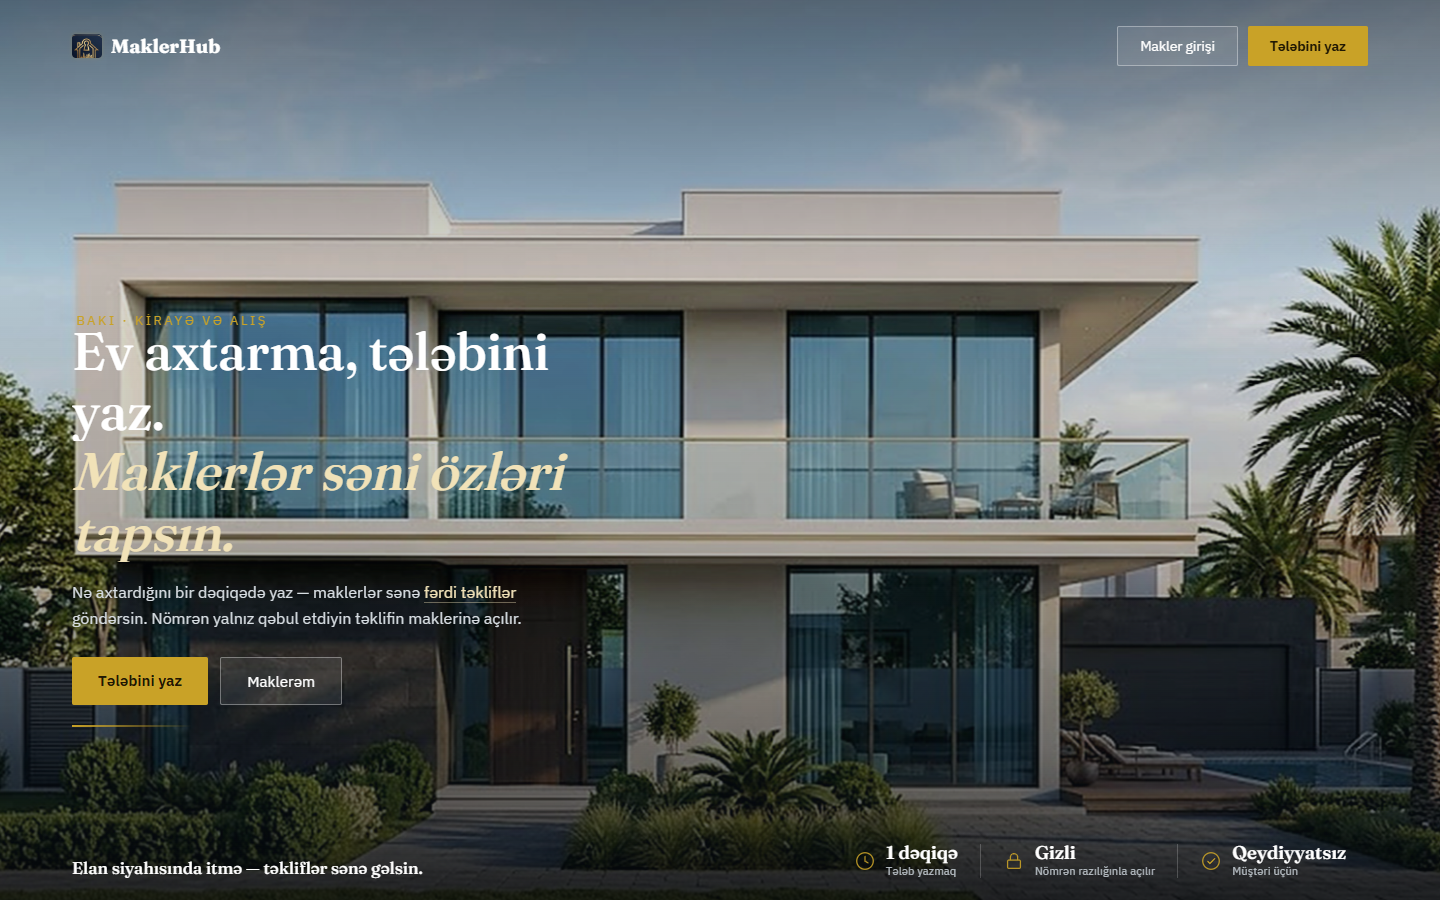
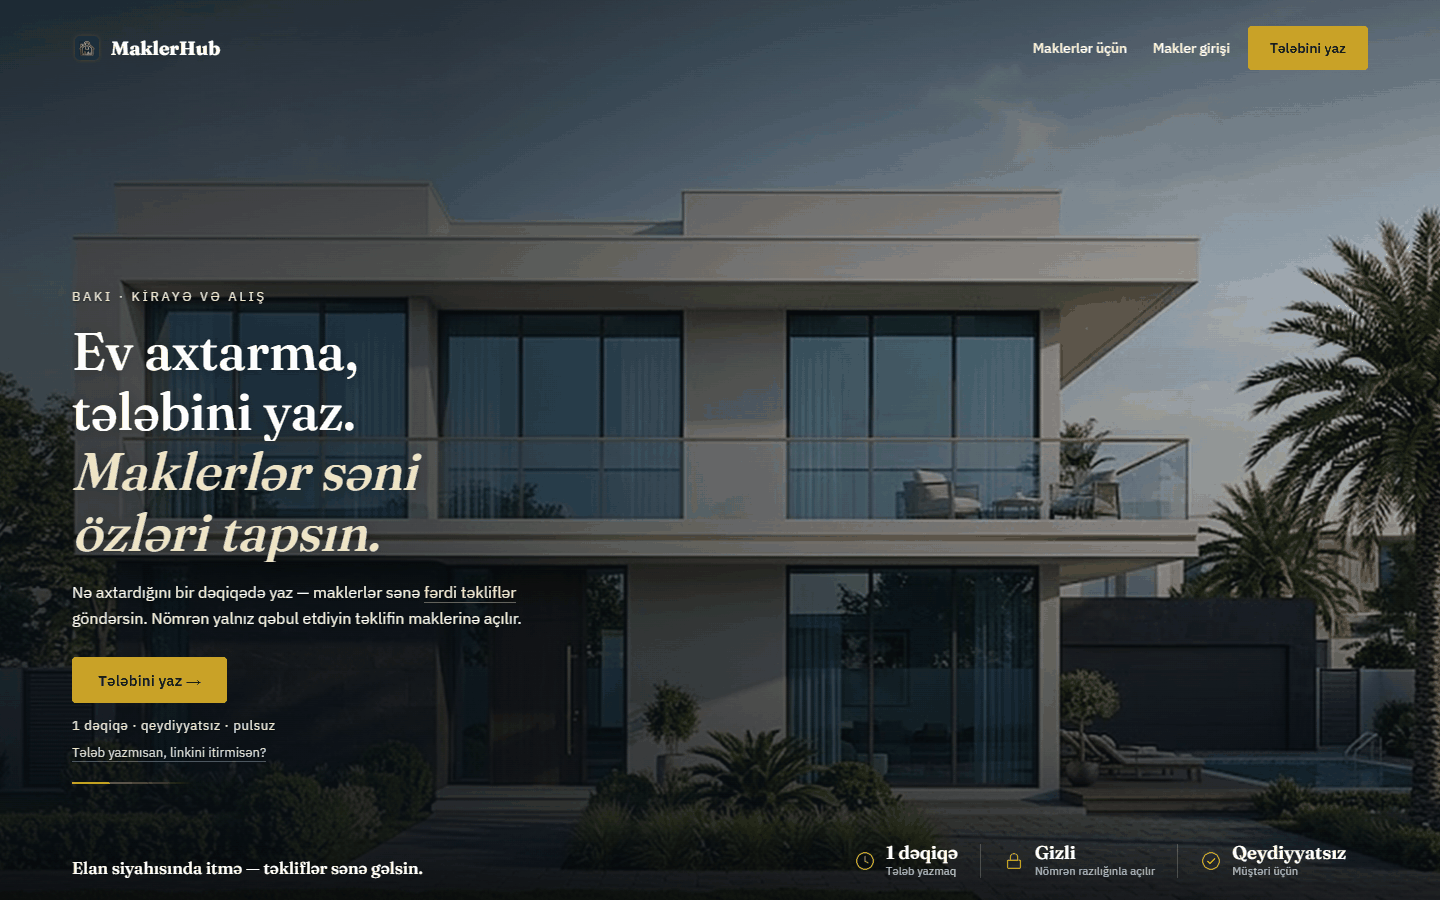
README: yeni ekran görüntüləri və funksiyalar

diff --git a/README.md b/README.md
@@ -76,8 +76,10 @@ sequenceDiagram
   IP üzrə məhdudlaşdırılır.
 - **Yarış vəziyyətləri** — təklif limiti, qəbul limiti (bir tələbdə 3) və bağlama tələb sətri kilidlənərək
   (`SELECT ... FOR UPDATE`) yoxlanır; `UNIQUE(request_id, agent_id)` bir maklerə bir təklif verir.
-- **Admin panel** — göstəricilər, tələblər (telefon yalnız admin üçün), maklerlər (dayandır, cihazları sıfırla,
-  lisenziyanı uzat), lisenziya kodları, şikayətlər, sistem loqları, avtomatik təmizlik.
+- **Admin panel** — göstəricilər, tələblər (müştərinin adı, telefonu və e-poçtu YALNIZ admin üçün; axtarış ad,
+  e-poçt, rayon, `#id` və istənilən formatda telefonla: `+994 50 …`, `050 …`, `50 …`), maklerlər (dayandır, cihazları
+  sıfırla, lisenziyanı uzat), lisenziya kodları, şikayətlər, sistem loqları, avtomatik təmizlik. Cədvəllər 1024px-dən
+  geniş ekranda sürüşmədən sığır, mobildə kart görünüşünə keçir.
 - **Məxfilik** — bağlanan/bitən tələbin adı, nömrəsi, qeydi və IP-si 90 gün sonra silinir; köhnə bildiriş, loq,
   giriş cəhdi və sessiyalar saatda bir dəfə avtomatik təmizlənir (pulsuz Neon yaddaşı üçün də).
 - **Şəkil yükləmə** — makler təklifə 1–5 şəkil yükləyir (telefonun kamerası/qalereyası işləyir). Brauzer
@@ -85,6 +87,20 @@ sequenceDiagram
   JPEG/PNG/WEBP, 200–10000 px, decompression bomb qoruması), EXIF/GPS-i silir, 1600px-ə kiçildib Cloudinary-ə
   imzalı yükləyir. Hamısı yüklənməsə heç biri qalmır; tələb/demo silinəndə şəkillər Cloudinary-dən də silinir,
   həftədə bir "yetim" şəkillər təmizlənir. Müştəri səhifəsində sürüşdürülən qalereya və tam ekran baxış.
+- **E-poçt bildirişləri** — müştəri istəsə e-poçtunu yazır: yeni təklif gələndə xəbər gedir (Brevo HTTP API; saatda
+  ən çox 1, gündə 3 məktub, arada gələnlər xülasə ilə), məktubda tək kliklə dayandırma linki var. Maklerlər
+  müştərinin e-poçtunu görmür; platforma üzrə gündəlik limit (250) dolanda admin paneldə xəbərdarlıq çıxır.
+- **Link bərpası** — müştəri gizli linkini itirsə `/teleb/berpa`-da e-poçtunu yazır və aktiv tələblərinin linkləri
+  ona göndərilir (cavab həmişə eyni — kimin qeydiyyatda olduğu bilinmir; IP və e-poçt üzrə limit). Brauzer son
+  tələbləri yadda saxlayır: ana səhifədə "Aktiv tələbin var" banneri çıxır.
+- **QR və Ana ekrana əlavə** — "Mənim tələbim" səhifəsində linki kopyalamaq, WhatsApp/Telegram/e-poçtla paylaşmaq,
+  QR kod (serverdə SVG) və telefonun ana ekranına əlavə etmək (hər tələb üçün ayrıca PWA manifest).
+- **Mobil dizayn** — bütün səhifələr 360–412px telefonlarda üfüqi sürüşməsiz işləyir: ☰ menyu, toxunma hədəfləri
+  ≥44px, 16px sahələr (iPhone zoom etmir), sticky "Göndər" düyməsi, kart görünüşlü admin cədvəlləri, mobil üçün ayrıca
+  şaquli hero şəkli (masaüstündə yüklənmir). `tests/test_mobile.py` iPhone 13 emulyasiyası ilə yoxlayır (Playwright).
+- **Animasiyalar** — başlıqların sətir-sətir qalxması, bölmələrin scroll ilə görünməsi, düymə və kart hover effektləri;
+  yalnız `transform`/`opacity` (layout sıçraması yoxdur), `prefers-reduced-motion` olanda sönür, JS-siz məzmun görünür.
+  Flash mesajları toast kimi çıxır.
 - **Demo rejimi** — `is_demo` bayrağı ilə tam izolyasiya; `flask --app run seed-demo` bir əmrlə hazırlayır.
 
 ## Ekran görüntüləri
@@ -93,15 +109,15 @@ sequenceDiagram
 |---|---|
 | ![Ana səhifə](docs/screenshots/01-ana-sehife.png) | ![Makler kabineti](docs/screenshots/04-makler-kabinet.png) |
 
-| Tələb forması (mobil) | Müştərinin təklifləri (mobil) |
-|---|---|
-| <img src="docs/screenshots/02-teleb-mobil.png" width="300" alt="Tələb forması"> | <img src="docs/screenshots/03-musteri-teklifler-mobil.png" width="300" alt="Təkliflər"> |
+| Ana səhifə (mobil) | Tələb forması, rayon seçici (mobil) | Müştərinin təklifləri (mobil) |
+|---|---|---|
+| <img src="docs/screenshots/07-ana-sehife-mobil.png" width="260" alt="Ana səhifə mobil"> | <img src="docs/screenshots/02-teleb-mobil.png" width="260" alt="Tələb forması"> | <img src="docs/screenshots/03-musteri-teklifler-mobil.png" width="260" alt="Təkliflər"> |
 
 | Tələb detalı və təklif forması | Admin panel |
 |---|---|
 | ![Tələb detalı](docs/screenshots/05-teleb-detal.png) | ![Admin panel](docs/screenshots/06-admin-panel.png) |
 
-Bütün şəkillər demo məlumatla çəkilib (adlar uydurmadır, telefonlar `+994 50 000 00 0X`).
+Bütün şəkillər demo məlumatla çəkilib (adlar uydurmadır, telefonlar `+994 50 000 00 0X`); mobil görüntülər iPhone 13 ölçüsündədir.
 
 ## Texnologiyalar və arxitektura
 
@@ -209,7 +225,7 @@ Python 3.11+ və PostgreSQL bazası lazımdır (ən asanı — Neon-da pulsuz ik
 git clone <repo> && cd MaklerHub
 python -m venv .venv
 # Windows: .venv\Scripts\activate      macOS/Linux: source .venv/bin/activate
-pip install -r requirements.txt -r requirements-dev.txt
+pip install -r requirements.txt -r requirements-dev.txt   # Playwright ixtiyaridir (mobil testlər, sistemdəki Chrome)
 # .env faylı yaradın (aşağıdakı cədvəl)
 python run.py                      # http://127.0.0.1:5000  (--debug, --port N)
 flask --app run seed-demo          # demo maklerlər, tələblər, təkliflər (təkrar işlətmək olar)
@@ -236,6 +252,9 @@ Windows-da konsol üçün `PYTHONIOENCODING=utf-8` tövsiyə olunur.
 | `BREVO_API_KEY` | e-poçt üçün | Brevo HTTP API açarı (SMTP YOX — Render pulsuz planı SMTP portlarını bloklayır). Yoxdursa məktublar göndərilmir, məzmun server loquna yazılır |
 | `MAKLERHUB_MAIL_FROM` | tövsiyə | Göndərən ünvan (Brevo-da təsdiqlənmiş olmalıdır). Yoxdursa admin əlaqə e-poçtu |
 | `MAKLERHUB_BASE_URL` | tövsiyə | Məktublardakı linklər və loqo üçün saytın ünvanı, məs. `https://maklerhub.onrender.com` (sondakı `/` atılır). Yoxdursa sorğunun host ünvanı |
+| `MAKLERHUB_TZ` | yox | Saat qurşağı (defolt `Asia/Baku`) |
+| `MAKLERHUB_POOL_MAX` | yox | Baza bağlantı hovuzunun maksimum ölçüsü (defolt `8`) |
+| `MAKLERHUB_ENV` | yox | Sentry-də mühit adı (defolt `production`) |
 
 ### Testlər
 
@@ -246,7 +265,7 @@ PYTHONIOENCODING=utf-8 python -m pytest tests -q -p no:cacheprovider
 Testlər YALNIZ `TEST_DATABASE_URL` bazasında işləyir və hər sessiyanın əvvəlində onu sıfırlayır;
 `TEST_DATABASE_URL` yoxdursa və ya real baza ilə eyni host-dadırsa pytest dərhal dayanır.
 Əhatə: uyğunluq balı, tələb forması və limitlər, təklif/qəbul axını və nömrənin açılması, yarış vəziyyətləri,
-admin panel, IP həlli, təmizlik, demo izolyasiyası, təhlükəsizlik başlıqları (~100 test, ~15 dəqiqə — uzaq baza; Cloudinary testlərdə mock olunur, şəbəkəyə getmir).
+admin panel, IP həlli, təmizlik, demo izolyasiyası, təhlükəsizlik başlıqları, e-poçt bildirişləri və link bərpası, şəkil yükləmə, mobil görünüş (~180 test, ~20 dəqiqə — uzaq baza; Cloudinary və Brevo testlərdə mock olunur, şəbəkəyə getmir; Playwright yoxdursa mobil testlər skip olur).
 
 ## Monitorinq
 
